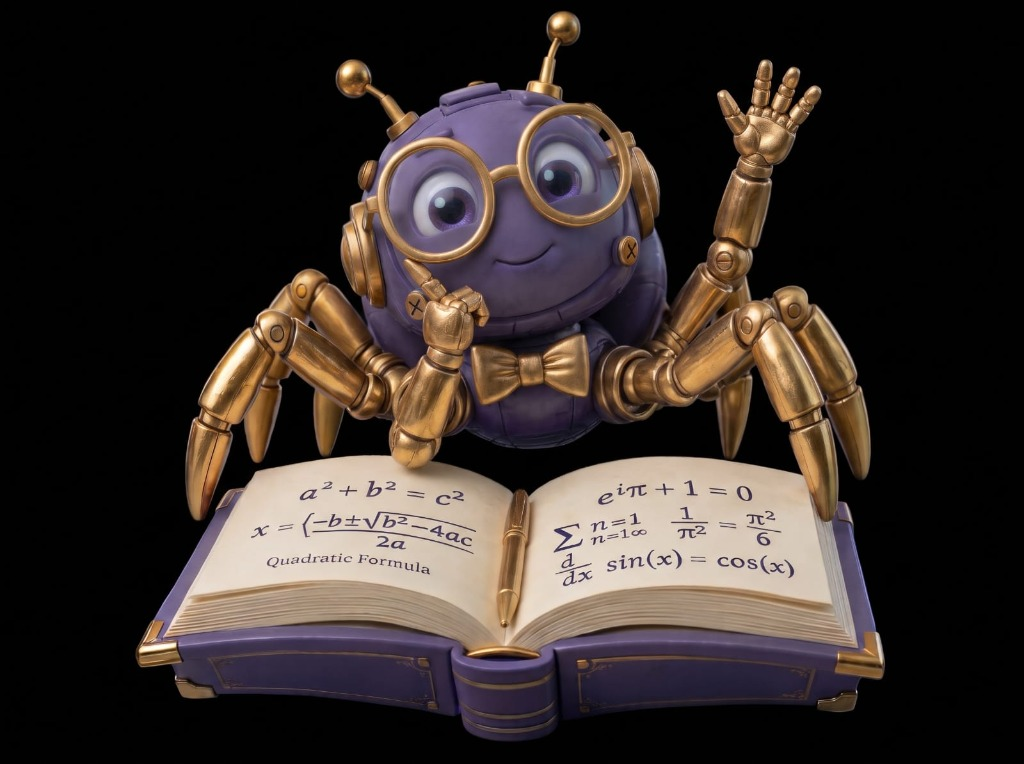
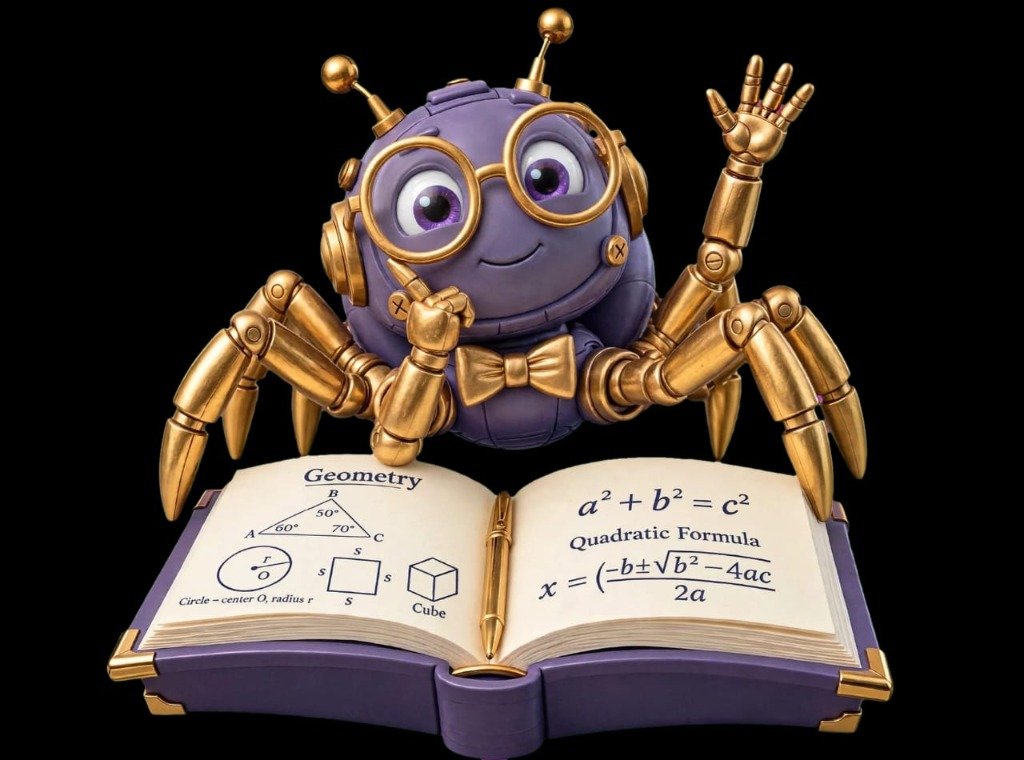
feat(branding): update hero mascots (EN left, AR right), waving curricula mascot, and replace opened curricula watermark with fine-line math formulas

diff --git a/src/app/shared/components/curriculum-selector-cards/curriculum-selector-cards.component.html b/src/app/shared/components/curriculum-selector-cards/curriculum-selector-cards.component.html
@@ -18,8 +18,8 @@
       </div>
       <img
         #spiderMascotDesktop
-        src="/assets/branding/spider-mascot-curricula-v3.webp?v=6"
-        srcset="/assets/branding/spider-mascot-curricula-sm-v3.webp?v=6 364w, /assets/branding/spider-mascot-curricula-v3.webp?v=6 480w"
+        src="/assets/branding/spider-mascot-curricula-v3.webp?v=7"
+        srcset="/assets/branding/spider-mascot-curricula-sm-v3.webp?v=7 364w, /assets/branding/spider-mascot-curricula-v3.webp?v=7 480w"
         sizes="(max-width: 1279px) 440px, 480px"
         alt="Spider Math Curricula Guide"
         width="480"
@@ -322,8 +322,8 @@
         </div>
         <img
           #spiderMascotMobile
-          src="/assets/branding/spider-mascot-curricula-v3.webp?v=6"
-          srcset="/assets/branding/spider-mascot-curricula-sm-v3.webp?v=6 364w, /assets/branding/spider-mascot-curricula-v3.webp?v=6 480w"
+          src="/assets/branding/spider-mascot-curricula-v3.webp?v=7"
+          srcset="/assets/branding/spider-mascot-curricula-sm-v3.webp?v=7 364w, /assets/branding/spider-mascot-curricula-v3.webp?v=7 480w"
           sizes="(max-width: 639px) 208px, 256px"
           alt="Spider Math Curricula Guide"
           width="364"
@@ -406,14 +406,82 @@
 
   <ng-template #trackPanelTemplate>
     <div class="track-panel-glass relative z-30 p-5 sm:p-8 animate-fade-in w-full max-w-6xl mx-auto mt-2 sm:mt-4 lg:-mt-24 overflow-hidden">
-      <!-- Mascot Watermark for the Selected Curriculum Track (Egyptian Sphinx, Gulf Ghutra, International Books, SAT 800) -->
-      <div class="track-panel-bg-watermark absolute inset-0 pointer-events-none select-none overflow-hidden" aria-hidden="true">
-        <img
-          [src]="getCurriculumBgImage(selectedCurriculumCode())"
-          alt=""
-          class="track-panel-bg-img"
-        />
-        <div class="track-panel-bg-overlay"></div>
+      <!-- Elegant Fine-Line Mathematical Formulas & Geometric Symbols Watermark (Replaces image inside curricula & units) -->
+      <div class="track-panel-math-watermark absolute inset-0 pointer-events-none select-none overflow-hidden" aria-hidden="true">
+        <svg class="w-full h-full object-cover" viewBox="0 0 1200 800" fill="none" xmlns="http://www.w3.org/2000/svg">
+          <!-- Cluster 1: Trigonometry, Coordinate Geometry & Triangle (Top-Left) -->
+          <g opacity="0.85">
+            <path d="M 40 110 L 260 110 M 60 30 L 60 170" stroke="currentColor" stroke-width="0.6" stroke-dasharray="2 3"/>
+            <path d="M 60 110 Q 95 55 130 110 T 200 110 T 250 110" stroke="currentColor" stroke-width="0.75"/>
+            <text x="80" y="50" font-size="11" fill="currentColor" font-style="italic">y = sin(x)</text>
+            <text x="70" y="145" font-size="11" fill="currentColor">sin²(θ) + cos²(θ) = 1</text>
+            <polygon points="65,225 210,225 210,140" stroke="currentColor" stroke-width="0.7"/>
+            <text x="130" y="242" font-size="11" fill="currentColor">a² + b² = c²</text>
+            <text x="218" y="185" font-size="10" fill="currentColor">b</text>
+            <text x="130" y="215" font-size="10" fill="currentColor">a</text>
+            <text x="125" y="175" font-size="10" fill="currentColor">c</text>
+          </g>
+
+          <!-- Cluster 2: Calculus, Limits & Differential Equations (Mid-Left) -->
+          <g opacity="0.80">
+            <text x="50" y="315" font-size="15" font-style="italic" fill="currentColor">∫</text>
+            <text x="60" y="304" font-size="9" fill="currentColor">b</text>
+            <text x="60" y="324" font-size="9" fill="currentColor">a</text>
+            <text x="72" y="316" font-size="11" fill="currentColor">f(x) dx = F(b) - F(a)</text>
+            <text x="50" y="375" font-size="11" fill="currentColor">lim</text>
+            <text x="50" y="388" font-size="8" fill="currentColor">x→0</text>
+            <text x="75" y="378" font-size="11" fill="currentColor">(sin x / x) = 1</text>
+            <text x="55" y="435" font-size="11" fill="currentColor">d/dx [e^(kx)] = k · e^(kx)</text>
+            <text x="55" y="485" font-size="11" fill="currentColor">∂²u/∂t² = c² · ∇²u</text>
+          </g>
+
+          <!-- Cluster 3: Quadratic Formula, Unit Circle & Euler (Top-Right) -->
+          <g opacity="0.85">
+            <text x="890" y="60" font-size="12" fill="currentColor">x = (-b ± √(b² - 4ac)) / 2a</text>
+            <circle cx="1060" cy="140" r="46" stroke="currentColor" stroke-width="0.7" stroke-dasharray="2 3"/>
+            <line x1="1005" y1="140" x2="1115" y2="140" stroke="currentColor" stroke-width="0.6"/>
+            <line x1="1060" y1="85" x2="1060" y2="195" stroke="currentColor" stroke-width="0.6"/>
+            <text x="945" y="135" font-size="12" font-style="italic" fill="currentColor">e^(iπ) + 1 = 0</text>
+            <text x="925" y="170" font-size="11" fill="currentColor">cos(2θ) = cos²θ - sin²θ</text>
+          </g>
+
+          <!-- Cluster 4: Series, Linear Algebra & Matrices (Mid-Right) -->
+          <g opacity="0.80">
+            <text x="915" y="275" font-size="17" fill="currentColor">∑</text>
+            <text x="932" y="265" font-size="8" fill="currentColor">n=1</text>
+            <text x="932" y="290" font-size="8" fill="currentColor">∞</text>
+            <text x="952" y="278" font-size="11" fill="currentColor">1/n² = π² / 6</text>
+            <text x="925" y="340" font-size="11" fill="currentColor">det(A - λI) = 0</text>
+            <text x="915" y="390" font-size="10" fill="currentColor">[ cos θ  -sin θ ; sin θ   cos θ ]</text>
+            <text x="930" y="445" font-size="11" fill="currentColor">∇ × B = μ₀J + μ₀ε₀(∂E/∂t)</text>
+          </g>
+
+          <!-- Cluster 5: Golden Ratio & Combinatorics (Bottom-Left) -->
+          <g opacity="0.85">
+            <text x="70" y="590" font-size="11" fill="currentColor">φ = (1 + √5) / 2 ≈ 1.618</text>
+            <text x="70" y="640" font-size="11" fill="currentColor">(x + y)ⁿ = ∑ C(n,k) x^(n-k) y^k</text>
+            <ellipse cx="140" cy="715" rx="65" ry="32" stroke="currentColor" stroke-width="0.7" stroke-dasharray="3 3"/>
+            <text x="105" y="720" font-size="10" fill="currentColor">x²/a² + y²/b² = 1</text>
+          </g>
+
+          <!-- Cluster 6: Probability, Vectors & Integrals (Bottom-Right) -->
+          <g opacity="0.85">
+            <path d="M 870 575 Q 930 575 965 510 Q 1000 575 1060 575" stroke="currentColor" stroke-width="0.75"/>
+            <text x="900" y="615" font-size="10" fill="currentColor">f(x) = (1/σ√2π) e^[-(x-μ)²/2σ²]</text>
+            <text x="905" y="665" font-size="11" fill="currentColor">z = r(cos θ + i sin θ) = r e^(iθ)</text>
+            <text x="915" y="720" font-size="11" fill="currentColor">|u × v| = |u| |v| sin(θ)</text>
+            <text x="930" y="760" font-size="11" fill="currentColor">∫₀^∞ e^(-x²) dx = √π / 2</text>
+          </g>
+
+          <!-- Ambient Floating Center Symbols -->
+          <g opacity="0.70">
+            <text x="540" y="70" font-size="12" fill="currentColor">π ≈ 3.14159</text>
+            <text x="660" y="95" font-size="11" fill="currentColor">∇ · E = ρ / ε₀</text>
+            <text x="490" y="730" font-size="11" fill="currentColor">λ₁ · λ₂ = det(M)</text>
+            <text x="640" y="755" font-size="11" fill="currentColor">log(ab) = log a + log b</text>
+          </g>
+        </svg>
+        <div class="track-panel-math-overlay absolute inset-0"></div>
       </div>
 
       <div class="relative z-10">

diff --git a/src/app/shared/components/curriculum-selector-cards/curriculum-selector-cards.component.scss b/src/app/shared/components/curriculum-selector-cards/curriculum-selector-cards.component.scss
@@ -146,32 +146,31 @@
     inset 0 -1px 2px 0 rgba(255, 255, 255, 0.06) !important;
   overflow: hidden;
 
-  // Track Panel Curriculum Watermark (visible in both GRADES and UNITS step)
-  .track-panel-bg-watermark {
+  // Track Panel Mathematical Formulas & Geometry Watermark (Thin, Light, Academic)
+  .track-panel-math-watermark {
     position: absolute;
     inset: 0;
     z-index: 0;
     pointer-events: none;
     overflow: hidden;
     border-radius: inherit;
+    color: rgba(212, 175, 106, 0.22);
+    font-family: 'Cambria Math', 'KaTeX_Math', 'Times New Roman', serif;
+    letter-spacing: 0.03em;
+    user-select: none;
+    transition: opacity 0.3s ease;
 
-    .track-panel-bg-img {
-      position: absolute;
-      inset: 0;
+    svg {
       width: 100%;
       height: 100%;
-      object-fit: cover;
-      object-position: center 30%;
-      opacity: 0.24;
-      filter: saturate(1.15) contrast(1.05);
-      transition: opacity 0.45s ease;
+      display: block;
     }
 
-    .track-panel-bg-overlay {
+    .track-panel-math-overlay {
       position: absolute;
       inset: 0;
-      background: radial-gradient(circle at 50% 30%, transparent 20%, rgba(33, 25, 49, 0.65) 85%),
-                  linear-gradient(180deg, rgba(33, 25, 49, 0.40) 0%, rgba(33, 25, 49, 0.82) 100%);
+      background: radial-gradient(circle at 50% 30%, transparent 40%, rgba(33, 25, 49, 0.40) 85%),
+                  linear-gradient(180deg, rgba(33, 25, 49, 0.15) 0%, rgba(33, 25, 49, 0.60) 100%);
     }
   }
 }
@@ -373,14 +372,12 @@
       0 0 35px -5px rgba(196, 154, 69, 0.16),
       inset 0 1.5px 2px 0 rgba(255, 255, 255, 1) !important;
 
-    .track-panel-bg-watermark {
-      .track-panel-bg-img {
-        opacity: 0.52;
-        filter: saturate(1.20) contrast(1.10) brightness(1.02);
-      }
-      .track-panel-bg-overlay {
-        background: radial-gradient(circle at 50% 30%, transparent 35%, rgba(255, 255, 255, 0.50) 85%),
-                    linear-gradient(180deg, rgba(255, 255, 255, 0.15) 0%, rgba(250, 246, 238, 0.65) 100%);
+    .track-panel-math-watermark {
+      color: rgba(180, 130, 45, 0.18);
+
+      .track-panel-math-overlay {
+        background: radial-gradient(circle at 50% 30%, transparent 45%, rgba(255, 255, 255, 0.35) 85%),
+                    linear-gradient(180deg, rgba(255, 255, 255, 0.10) 0%, rgba(250, 246, 238, 0.45) 100%);
       }
     }
   }

diff --git a/src/app/features/guest-portal/landing-home/landing-home.component.html b/src/app/features/guest-portal/landing-home/landing-home.component.html
@@ -138,9 +138,9 @@
             <!-- 3D Mascot Image with Book (Transparent WebP with Gentle Float) -->
             <div class="relative z-10 w-full flex items-center justify-center pt-6">
               <img
-                [attr.srcset]="langService.isArabic() ? '/assets/branding/spider-mascot-hero-book-ar-sm-v3.webp?v=6 480w, /assets/branding/spider-mascot-hero-book-ar-v3.webp?v=6 640w' : '/assets/branding/spider-mascot-hero-book-sm-v3.webp?v=6 480w, /assets/branding/spider-mascot-hero-book-v3.webp?v=6 640w'"
+                [attr.srcset]="langService.isArabic() ? '/assets/branding/spider-mascot-hero-book-ar-sm-v3.webp?v=7 480w, /assets/branding/spider-mascot-hero-book-ar-v3.webp?v=7 640w' : '/assets/branding/spider-mascot-hero-book-sm-v3.webp?v=7 480w, /assets/branding/spider-mascot-hero-book-v3.webp?v=7 640w'"
                 sizes="(max-width: 640px) 360px, (max-width: 1023px) 440px, 500px"
-                [src]="langService.isArabic() ? '/assets/branding/spider-mascot-hero-book-ar-v3.webp?v=6' : '/assets/branding/spider-mascot-hero-book-v3.webp?v=6'"
+                [src]="langService.isArabic() ? '/assets/branding/spider-mascot-hero-book-ar-v3.webp?v=7' : '/assets/branding/spider-mascot-hero-book-v3.webp?v=7'"
                 [alt]="langService.isArabic() ? 'رفيق سبايدر ماث الذكي للمذاكرة' : 'Spider Math AI Study Partner'"
                 width="640"
                 height="640"

diff --git a/scripts/process-mascots.py b/scripts/process-mascots.py
@@ -216,11 +216,11 @@ def main():
     raw_dir.mkdir(parents=True, exist_ok=True)
 
     # Source 1: New Curricula mascot (Spider mascot waving with book)
-    src_curricula = Path(r"C:\Users\A&M\.gemini\antigravity\brain\7884e37f-b482-4770-8151-7e858c83638b\.user_uploaded\media_1794423314323_47077bbd.jpg")
-    # Source 2: New Hero Arabic mascot (Spider mascot resting arms on book)
-    src_hero_ar = Path(r"C:\Users\A&M\.gemini\antigravity\brain\7884e37f-b482-4770-8151-7e858c83638b\.user_uploaded\media_1794423343527_bc91dc49.jpg")
-    # Source 3: English hero mascot
-    src_hero_en = Path(r"C:\Users\A&M\.gemini\antigravity\brain\7884e37f-b482-4770-8151-7e858c83638b\.user_uploaded\media_1794333114089_f77c1f40.jpg")
+    src_curricula = Path(r"C:\Users\A&M\.gemini\antigravity\brain\7884e37f-b482-4770-8151-7e858c83638b\.user_uploaded\media_1794455748393_ca438d8d.jpg")
+    # Source 2: New Hero Arabic mascot (Spider mascot looking right towards text)
+    src_hero_ar = Path(r"C:\Users\A&M\.gemini\antigravity\brain\7884e37f-b482-4770-8151-7e858c83638b\.user_uploaded\media_1794455743392_0ecbf307.jpg")
+    # Source 3: New Hero English mascot (Spider mascot looking left towards text)
+    src_hero_en = Path(r"C:\Users\A&M\.gemini\antigravity\brain\7884e37f-b482-4770-8151-7e858c83638b\.user_uploaded\media_1794455736669_d14564e2.jpg")
 
     local_raw_curricula = raw_dir / "spider-mascot-curricula.jpg"
     local_raw_hero_ar = raw_dir / "spider-mascot-hero-ar.jpg"
@@ -251,11 +251,12 @@ def main():
     ])
 
     print("\n=======================================================")
-    print("2. Processing Arabic Hero Mascot (New resting arms spider)...")
+    print("2. Processing Arabic Hero Mascot (Looking right)...")
     print("=======================================================")
     hero_ar_raw = local_raw_hero_ar if local_raw_hero_ar.exists() else src_hero_ar
     hero_ar_rgba = remove_black_background(hero_ar_raw)
-    save_variants(hero_ar_rgba, [
+    hero_ar_square = make_square_centered(hero_ar_rgba, margin_ratio=0.04)
+    save_variants(hero_ar_square, [
         {'path': branding_dir / 'spider-mascot-hero-book-ar-v3.webp', 'size': (640, 640), 'format': 'WEBP', 'quality': 85},
         {'path': branding_dir / 'spider-mascot-hero-book-ar-sm-v3.webp', 'size': (480, 480), 'format': 'WEBP', 'quality': 82},
         {'path': branding_dir / 'spider-mascot-hero-book-ar.webp', 'size': (640, 640), 'format': 'WEBP', 'quality': 85},
@@ -265,11 +266,12 @@ def main():
 
     if local_raw_hero_en.exists() or src_hero_en.exists():
         print("\n=======================================================")
-        print("3. Processing English Hero Mascot...")
+        print("3. Processing English Hero Mascot (Looking left)...")
         print("=======================================================")
         hero_en_raw = local_raw_hero_en if local_raw_hero_en.exists() else src_hero_en
         hero_en_rgba = remove_black_background(hero_en_raw)
-        save_variants(hero_en_rgba, [
+        hero_en_square = make_square_centered(hero_en_rgba, margin_ratio=0.04)
+        save_variants(hero_en_square, [
             {'path': branding_dir / 'spider-mascot-hero-book-v3.webp', 'size': (640, 640), 'format': 'WEBP', 'quality': 85},
             {'path': branding_dir / 'spider-mascot-hero-book-sm-v3.webp', 'size': (480, 480), 'format': 'WEBP', 'quality': 82},
             {'path': branding_dir / 'spider-mascot-hero-book-v3.png', 'size': (640, 640), 'format': 'PNG'},
